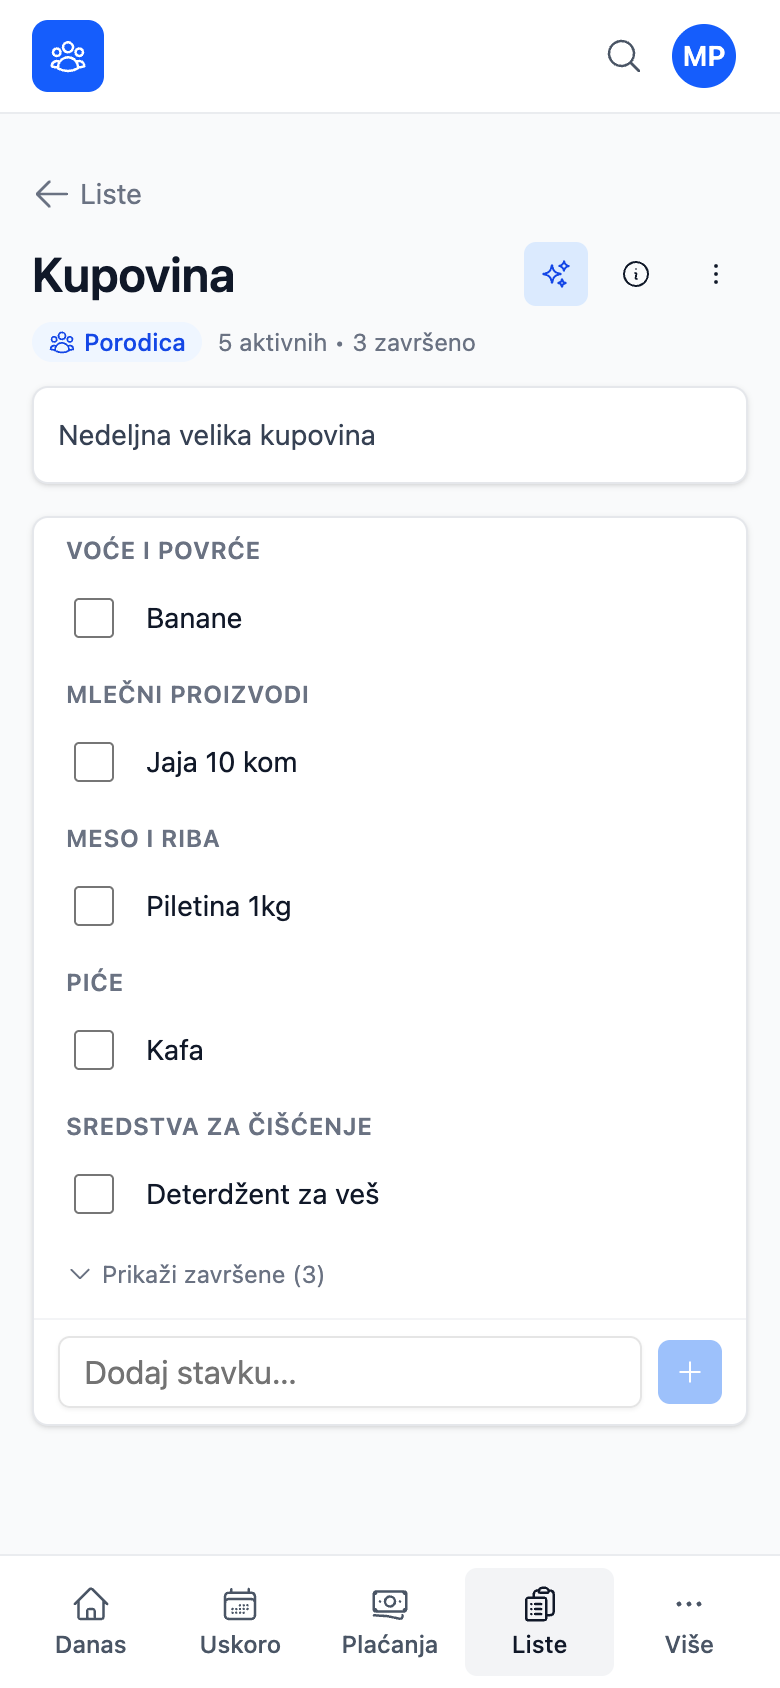
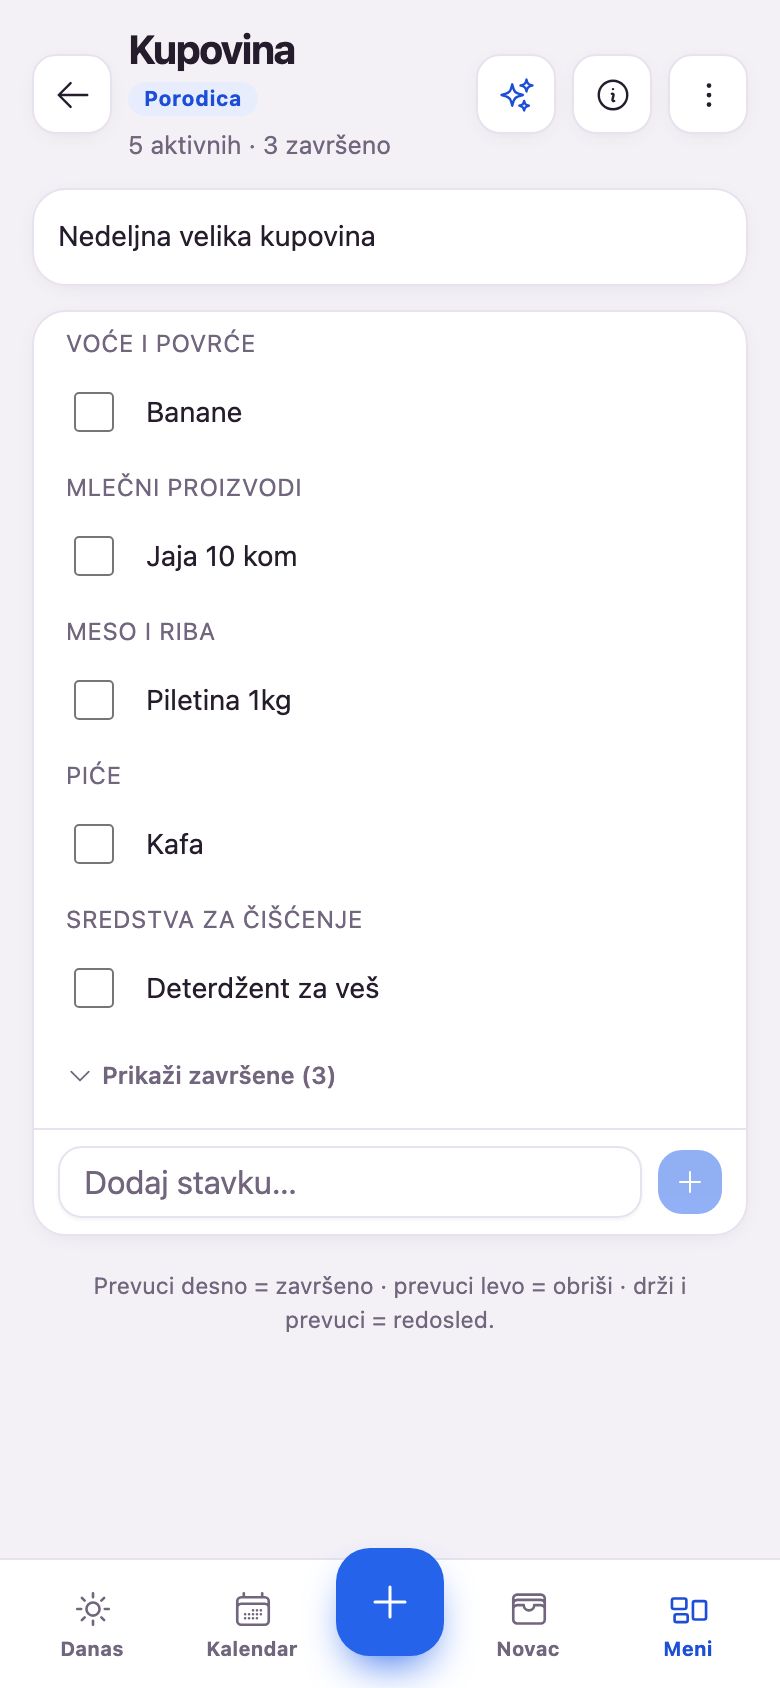
Novi screenshotovi u README-u posle redizajna i dečije aplikacije
Stari set je snimljen pre redizajna 2.0 („Šljiva") i pre dečijeg režima, pa
nijedan ekran više ne izgleda tako. Novi set je snimljen lokalno protiv demo
porodice (scripts/seed-demo.ts), na 390x844 @2x - iste dimenzije kao i do sada.

Tabela sada ima 12 ekrana umesto 9:
- Danas, Kalendar (nedelja i mesec) - nova traka Danas·Kalendar·[+]·Novac·Meni
- Budžet, Plaćanja, Liste, Škola
- Meni (nova mreža sekcija) i globalna pretraga
- dečiji režim: Danas i Raspored
- tamna tema

Izbačeni su aktivnosti.png, kalendar.png i uskoro.png - te ekrane su preuzeli
Kalendar i Škola.

Uz to, dve stvari koje su ispale iz samog snimanja:

- Pozdrav na Danas ekranu je uvek pisao „Dobro veče". `greetingFor` je dobijao
  datum iz `useToday()`, a taj je normalizovan na lokalnu ponoć, pa je
  `getHours()` uvek bio 0. Sada čita sat, a doc i test čuvaju od povratka
  greške.
- README je i dalje opisivao agendu kao „Danas / Uskoro" (od redizajna je
  Kalendar) i uopšte nije pominjao dečiji režim.

diff --git a/src/utils/__tests__/greeting.test.ts b/src/utils/__tests__/greeting.test.ts
@@ -1,0 +1,25 @@
+import { describe, expect, it } from "vitest";
+import { startOfDay } from "date-fns";
+
+import { greetingFor } from "../greeting";
+
+describe("greetingFor", () => {
+  it("picks the greeting off the clock", () => {
+    expect(greetingFor(new Date(2026, 7, 10, 2, 30))).toBe("Dobro veče");
+    expect(greetingFor(new Date(2026, 7, 10, 8, 0))).toBe("Dobro jutro");
+    expect(greetingFor(new Date(2026, 7, 10, 13, 15))).toBe("Dobar dan");
+    expect(greetingFor(new Date(2026, 7, 10, 21, 45))).toBe("Dobro veče");
+  });
+
+  it("reads the current time when called with no argument", () => {
+    expect(greetingFor()).toBe(greetingFor(new Date()));
+  });
+
+  it("is not called with a midnight-normalized date", () => {
+    // Regression: the Danas header used to pass `useToday().date`, which is
+    // local midnight - so `getHours()` was always 0 and the header read
+    // "Dobro veče" at every hour of the day.
+    const middayIsNotMidnight = greetingFor(new Date(2026, 7, 10, 12, 0));
+    expect(middayIsNotMidnight).not.toBe(greetingFor(startOfDay(new Date(2026, 7, 10, 12, 0))));
+  });
+});

diff --git a/src/utils/greeting.ts b/src/utils/greeting.ts
@@ -4,8 +4,12 @@
  * Deliberately WITHOUT the user's name: Serbian would need the vocative
  * ("Miloše", not "Miloš") and a wrong declension reads worse than no name at
  * all - the same call the empty states already make.
+ *
+ * Takes the CLOCK, so it defaults to `new Date()`. Do not hand it the date from
+ * `useToday()`: that one is normalized to local midnight, so `getHours()` is
+ * always 0 and every greeting comes out "Dobro veče".
  */
-export function greetingFor(date: Date): string {
+export function greetingFor(date: Date = new Date()): string {
   const hour = date.getHours();
   if (hour < 5) return "Dobro veče";
   if (hour < 12) return "Dobro jutro";

diff --git a/src/components/dashboard/TodayScreen.tsx b/src/components/dashboard/TodayScreen.tsx
@@ -125,7 +125,7 @@ export function TodayScreen() {
           the title block sizes itself there, so the screens stay pixel-identical
           instead of each rolling its own header. */}
       <ScreenHeaderRow
-        subtitle={greetingFor(todayDate)}
+        subtitle={greetingFor()}
         title={dateLabel.charAt(0).toUpperCase() + dateLabel.slice(1)}
         actions={
           <>

diff --git a/README.md b/README.md
@@ -10,19 +10,21 @@ Sve na srpskom, sa push podsetnicima i realtime sinhronizacijom među članovima
 **▶ Aplikacija: [pajcho.github.io/family-assistant-react](https://pajcho.github.io/family-assistant-react/)**
 (privatna instanca - potreban je nalog u okviru porodice)
 
-|                     Danas                      |                  Dnevni kalendar                  |                     Uskoro                     |
-| :--------------------------------------------: | :-----------------------------------------------: | :--------------------------------------------: |
-|      ![Danas](docs/screenshots/danas.png)      | ![Dnevni kalendar](docs/screenshots/kalendar.png) |     ![Uskoro](docs/screenshots/uskoro.png)     |
-|             **Aktivnosti i škola**             |                   **Plaćanja**                    |                   **Budžet**                   |
-| ![Aktivnosti](docs/screenshots/aktivnosti.png) |    ![Plaćanja](docs/screenshots/placanja.png)     |     ![Budžet](docs/screenshots/budzet.png)     |
-|                   **Liste**                    |               **Globalna pretraga**               |                 **Tamna tema**                 |
-|      ![Liste](docs/screenshots/liste.png)      |    ![Pretraga](docs/screenshots/pretraga.png)     | ![Tamna tema](docs/screenshots/tamna-tema.png) |
+|                      Danas                       |                        Nedelja                         |                        Mesec                        |
+| :----------------------------------------------: | :----------------------------------------------------: | :-------------------------------------------------: |
+|       ![Danas](docs/screenshots/danas.png)       |   ![Nedelja](docs/screenshots/kalendar-nedelja.png)    |    ![Mesec](docs/screenshots/kalendar-mesec.png)    |
+|                    **Budžet**                    |                      **Plaćanja**                      |                      **Liste**                      |
+|      ![Budžet](docs/screenshots/budzet.png)      |       ![Plaćanja](docs/screenshots/placanja.png)       |        ![Liste](docs/screenshots/liste.png)         |
+|                    **Škola**                     |                        **Meni**                        |                **Globalna pretraga**                |
+|       ![Škola](docs/screenshots/skola.png)       |           ![Meni](docs/screenshots/meni.png)           | ![Globalna pretraga](docs/screenshots/pretraga.png) |
+|                 **Dečiji režim**                 |                  **Dečiji raspored**                   |                   **Tamna tema**                    |
+| ![Dečiji režim](docs/screenshots/dete-danas.png) | ![Dečiji raspored](docs/screenshots/dete-raspored.png) |   ![Tamna tema](docs/screenshots/tamna-tema.png)    |
 
 ## Mogućnosti
 
-- 📅 **Jedinstvena agenda (Danas / Uskoro)** - aktivnosti, događaji, plaćanja, rođendani i
-  Google eventi u jednom toku. Prikaz kao lista ili kalendar, filteri po tipu i po članu,
-  a sve što je propušteno stoji na vrhu u sekciji „Prekoračeno".
+- 📅 **Jedinstvena agenda (Danas / Kalendar)** - aktivnosti, događaji, plaćanja, rođendani i
+  Google eventi u jednom toku. Kalendar se gleda kao agenda, nedelja ili mesec, sa filterima
+  po tipu i po članu, a sve što je propušteno stoji na vrhu u sekciji „Prekoračeno".
 - 🎒 **Aktivnosti i školski raspored** - ponavljajući termini (nedeljno, A/B nedelje, na N nedelja),
   učesnici po članu, plus školske smene sa automatskim preokretanjem, raspored časova (varijanta A/B)
   i zvona koja same računaju vreme svakog časa.
@@ -42,6 +44,10 @@ Sve na srpskom, sa push podsetnicima i realtime sinhronizacijom među članovima
   Idempotentno preko `notification_log`, mrtve pretplate se same brišu.
 - 📆 **Google kalendar** - jednosmerno preslikavanje (read-only) sa privatnošću po kalendaru:
   ne deli se, deli se samo termin bez detalja, ili se deli ceo događaj.
+- 🧒 **Dečiji režim** - dete dobija svoju, potpuno read-only aplikaciju: šta ima danas, šta
+  dolazi uskoro i školski raspored, u temi koju samo izabere. Telefon se povezuje QR kodom ili
+  osmoznakovnim pozivom pa se prijavljuje PIN-om; nema email-a ni lozinke, a roditelj u svakom
+  trenutku vidi povezane uređaje i može da ih opozove.
 - 🔍 **Globalna pretraga** (⌘K) kroz aktivnosti, događaje, plaćanja, liste i rođendane.
 - 📱 **PWA** - instalira se na telefon, radi u standalone režimu, ima tamnu temu i
   toast kad stigne nova verzija.
